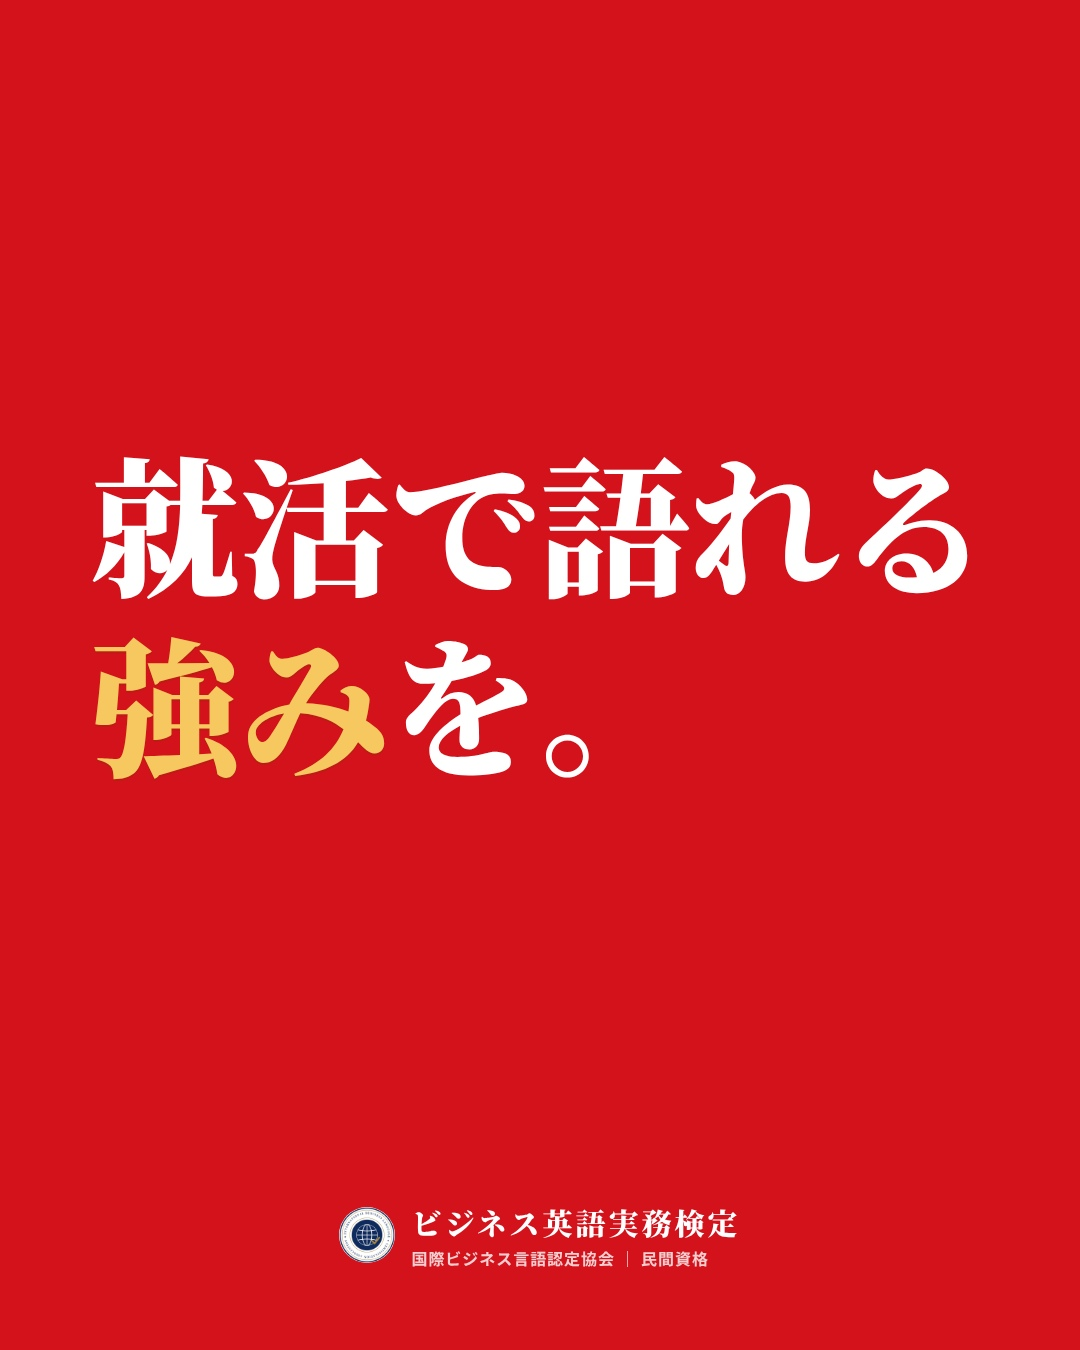
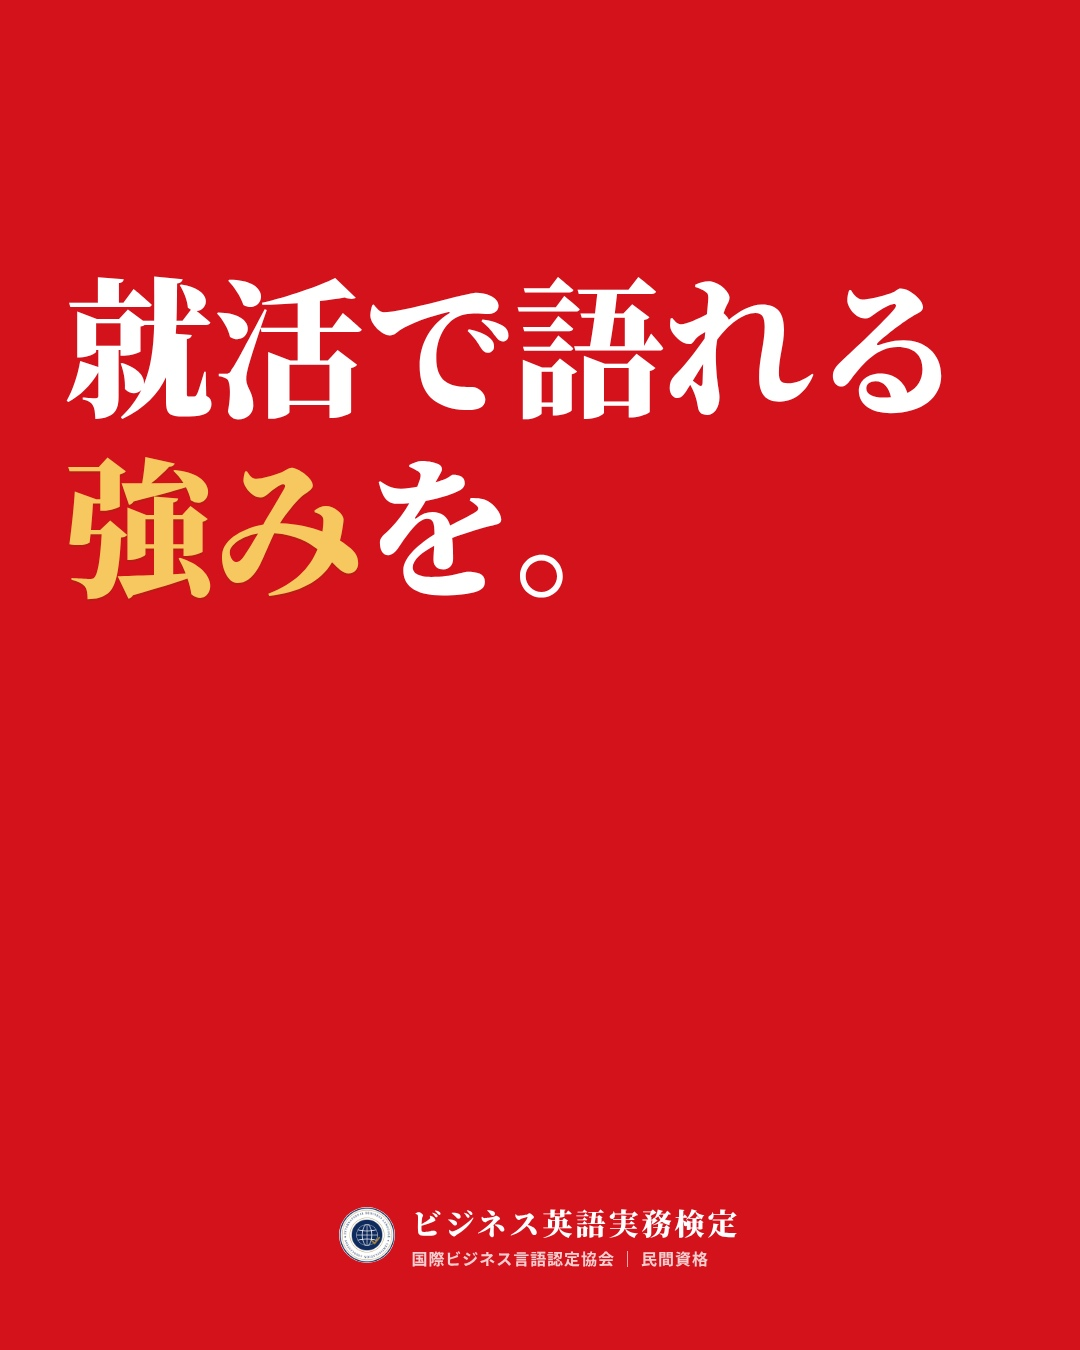
ポスター I3：文字を左上寄りに
Claude-Session: https://claude.ai/code/session_014p5jKzC7vmuyPAkeTgUdi2

Changed region(s): [[0.0611, 0.3422, 0.9167, 0.5911], [0.0611, 0.1867, 0.8861, 0.3111]]

diff --git a/content/posters/formats/e7.html b/content/posters/formats/e7.html
@@ -1,7 +1,7 @@
 <!doctype html><html><head><meta charset="utf-8"><style>
 *{margin:0;padding:0;box-sizing:border-box}html,body{width:1080px;height:1350px;overflow:hidden}
 body{background:#d3121c;color:#fff;font-family:"Noto Serif CJK JP",serif;-webkit-font-smoothing:antialiased;position:relative}
-.w{position:absolute;left:90px;right:90px;top:430px}
+.w{position:absolute;left:64px;right:64px;top:250px}
 .a{font-weight:700;font-size:72px;letter-spacing:.06em}
 .b{margin-top:0;font-weight:900;font-size:150px;line-height:1.2}
 .bar{width:110px;height:4px;background:#fff;margin:60px 0 40px}

diff --git a/log/posted.md b/log/posted.md
@@ -152,3 +152,4 @@
 - 2026-11-02 作成｜ポスター I「就活で語れる強みを。それが、ビジネス英語。」（H を短くした版）｜未投稿
 - 2026-11-02 作成｜ポスター I2（I の「強み」を金 #f6c85f に）｜未投稿
 - 2026-11-02 作成｜ポスター I3（I2 から「それが、ビジネス英語。」を外した版）｜未投稿
+- 2026-11-02 修正｜ポスター I3：文字を左上寄りに
